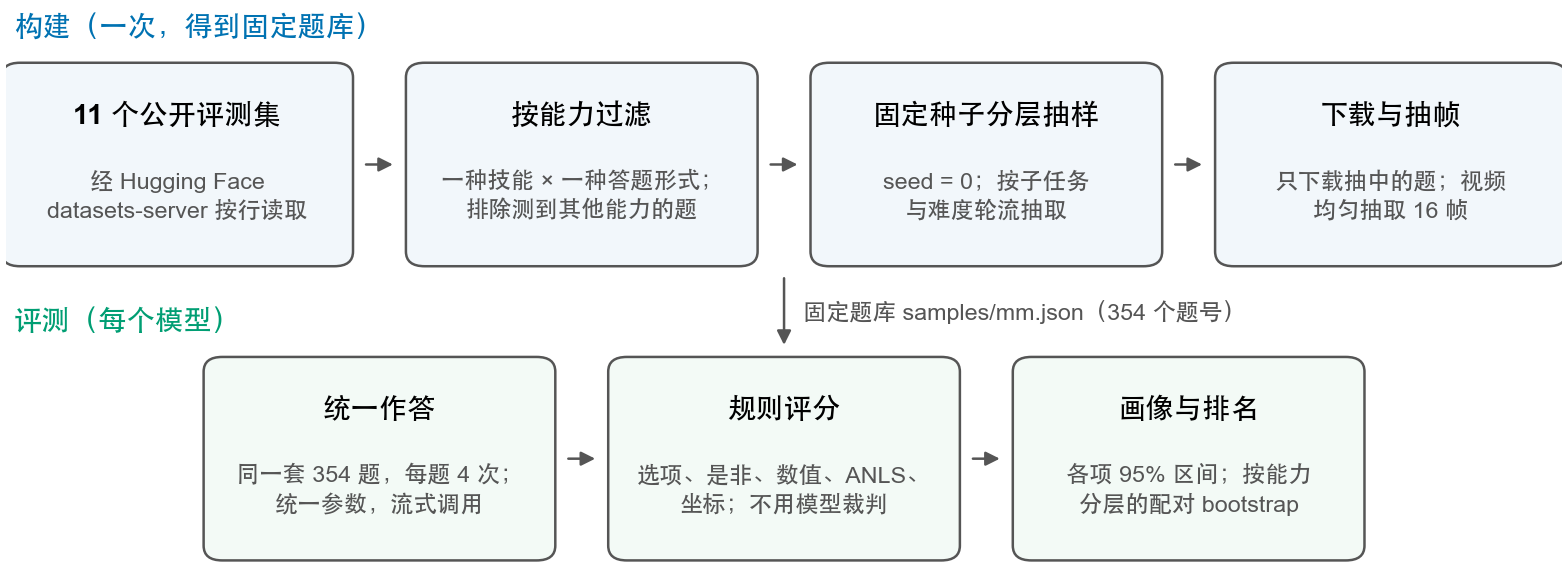
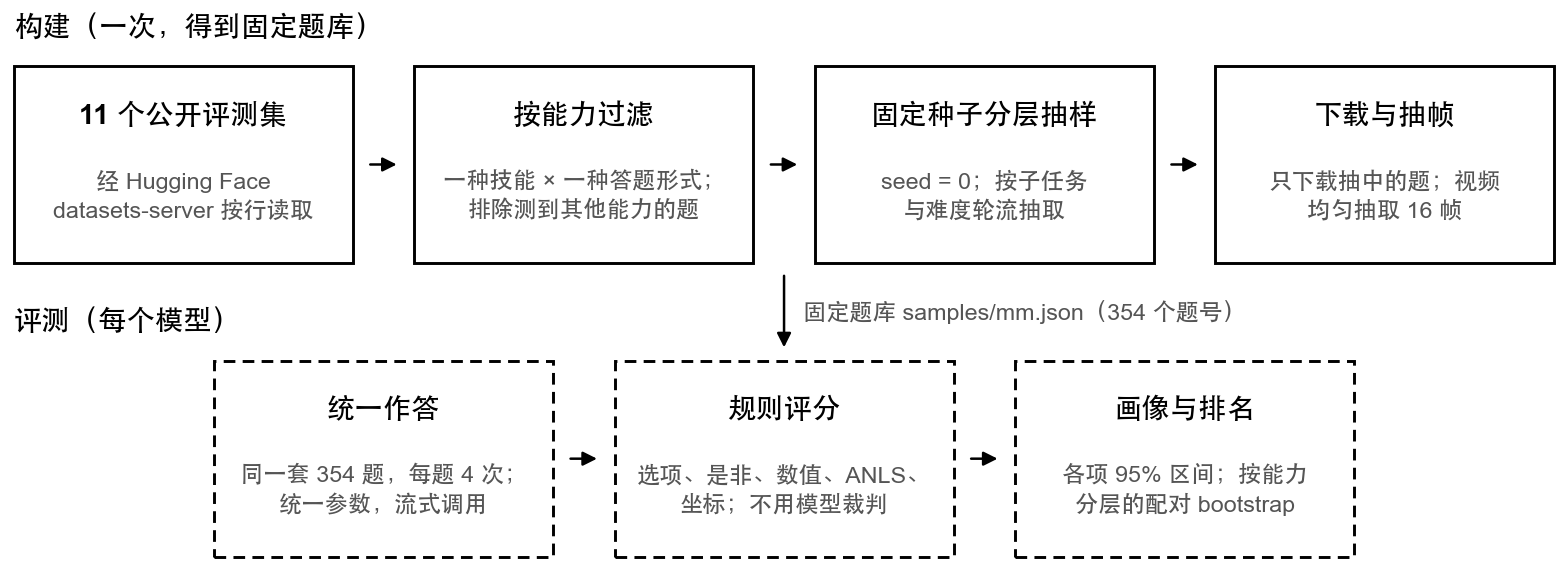
Report: Figure 2 as outline-only boxes (solid for the one-time build, dashed for each model's evaluation), no colour fill

diff --git a/paper/make_figures.py b/paper/make_figures.py
@@ -14,7 +14,7 @@ import matplotlib
 matplotlib.use("Agg")
 import matplotlib.pyplot as plt  # noqa: E402
 from matplotlib import font_manager  # noqa: E402
-from matplotlib.patches import FancyBboxPatch  # noqa: E402
+from matplotlib.patches import Rectangle  # noqa: E402
 
 ROOT = sys.argv[1] if len(sys.argv) > 1 else os.path.dirname(os.path.abspath(__file__))
 A = json.load(open(os.path.join(ROOT, "analysis.json")))
@@ -103,35 +103,36 @@ def fig1():
 
 
 def fig2():
-    """The construction and evaluation pipeline, as two rows: build once, then evaluate every model."""
+    """The construction and evaluation pipeline, as two rows: build once (solid boxes), then evaluate every model
+    (dashed boxes); outlines only, no fill."""
     fig, ax = plt.subplots(figsize=(170 * MM, 62 * MM))
-    ax.set_xlim(0, 100)
+    ax.set_xlim(-0.5, 100.5)
     ax.set_ylim(0, 46)
     ax.axis("off")
-    rows = [("构建（一次，得到固定题库）", "#F2F7FB", "#0072B2", 25,
+    rows = [("构建（一次，得到固定题库）", "-", 25,
              [("11 个公开评测集", "经 Hugging Face\ndatasets-server 按行读取"),
               ("按能力过滤", "一种技能 × 一种答题形式；\n排除测到其他能力的题"),
               ("固定种子分层抽样", "seed = 0；按子任务\n与难度轮流抽取"),
               ("下载与抽帧", "只下载抽中的题；视频\n均匀抽取 16 帧")]),
-            ("评测（每个模型）", "#F3FAF6", "#009E73", 1,
+            ("评测（每个模型）", (0, (4, 2.5)), 1,
              [("统一作答", "同一套 354 题，每题 4 次；\n统一参数，流式调用"),
               ("规则评分", "选项、是非、数值、ANLS、\n坐标；不用模型裁判"),
               ("画像与排名", "各项 95% 区间；按能力\n分层的配对 bootstrap")])]
-    for title, fc, tc, y0, steps in rows:
+    for title, ls, y0, steps in rows:
         n = len(steps)
         w = 22.0
         gap = (100 - w * 4) / 3
         x0 = (100 - (n * w + (n - 1) * gap)) / 2
-        ax.text(0.5, y0 + 18.6, title, ha="left", fontsize=6.8, color=tc, fontweight="bold")
+        ax.text(0, y0 + 18.6, title, ha="left", fontsize=6.8, fontweight="bold")
         for i, (head, body) in enumerate(steps):
             x = x0 + i * (w + gap)
-            ax.add_patch(FancyBboxPatch((x, y0), w, 16, boxstyle="round,pad=0.3,rounding_size=1.2", lw=0.6, ec=DARK, fc=fc))
+            ax.add_patch(Rectangle((x, y0), w, 16, lw=0.7, ls=ls, ec="black", fc="none"))
             ax.text(x + w / 2, y0 + 12, head, ha="center", va="center", fontsize=6.8, fontweight="bold")
             ax.text(x + w / 2, y0 + 5.5, body, ha="center", va="center", fontsize=5.6, color=DARK, linespacing=1.4)
             if i < n - 1:
                 ax.annotate("", xy=(x + w + gap - 0.6, y0 + 8), xytext=(x + w + 0.6, y0 + 8),
-                            arrowprops={"arrowstyle": "-|>", "lw": 0.6, "color": DARK})
-    ax.annotate("", xy=(50, 17.6), xytext=(50, 24.4), arrowprops={"arrowstyle": "-|>", "lw": 0.6, "color": DARK})
+                            arrowprops={"arrowstyle": "-|>", "lw": 0.6, "color": "black"})
+    ax.annotate("", xy=(50, 17.4), xytext=(50, 24.6), arrowprops={"arrowstyle": "-|>", "lw": 0.6, "color": "black"})
     ax.text(51.2, 21, "固定题库 samples/mm.json（354 个题号）", fontsize=5.6, color=DARK, va="center")
     save(fig, "fig2_pipeline")
 

diff --git a/paper/main.tex b/paper/main.tex
@@ -126,7 +126,7 @@
 \begin{figure}[t]
   \centering
   \includegraphics[width=\linewidth]{figures/fig2_pipeline.pdf}
-  \caption{\textbf{构建与评测流程。}上行只执行一次，得到固定题库；下行对每个模型执行，题目、抽帧与评分规则对所有模型完全相同。}
+  \caption{\textbf{构建与评测流程。}上行（实线框）只执行一次，得到固定题库；下行（虚线框）对每个模型执行，题目、抽帧与评分规则对所有模型完全相同。}
   \label{fig:pipeline}
 \end{figure}
 
